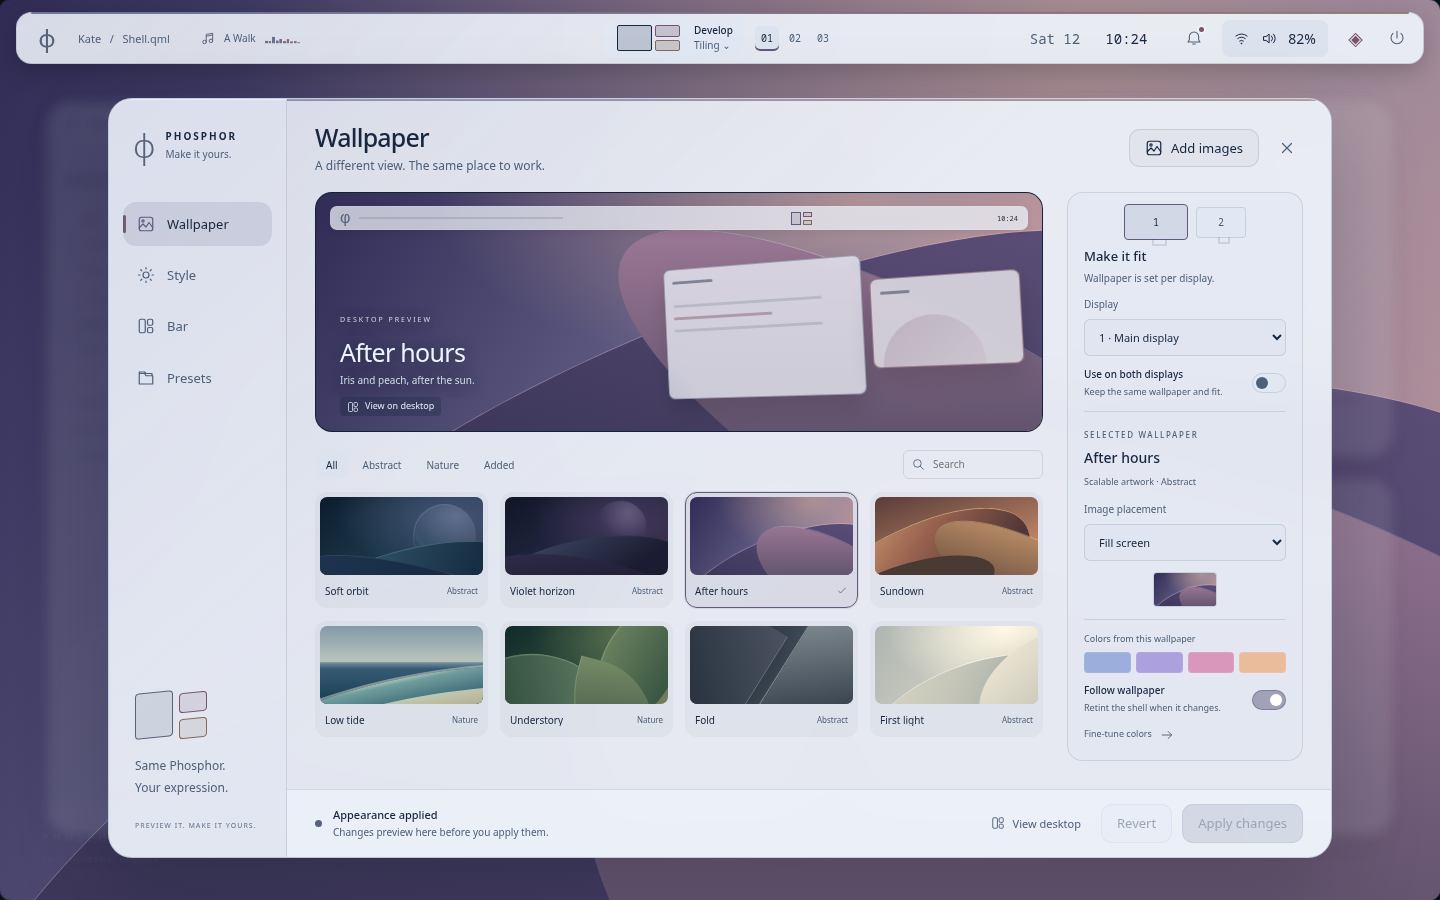
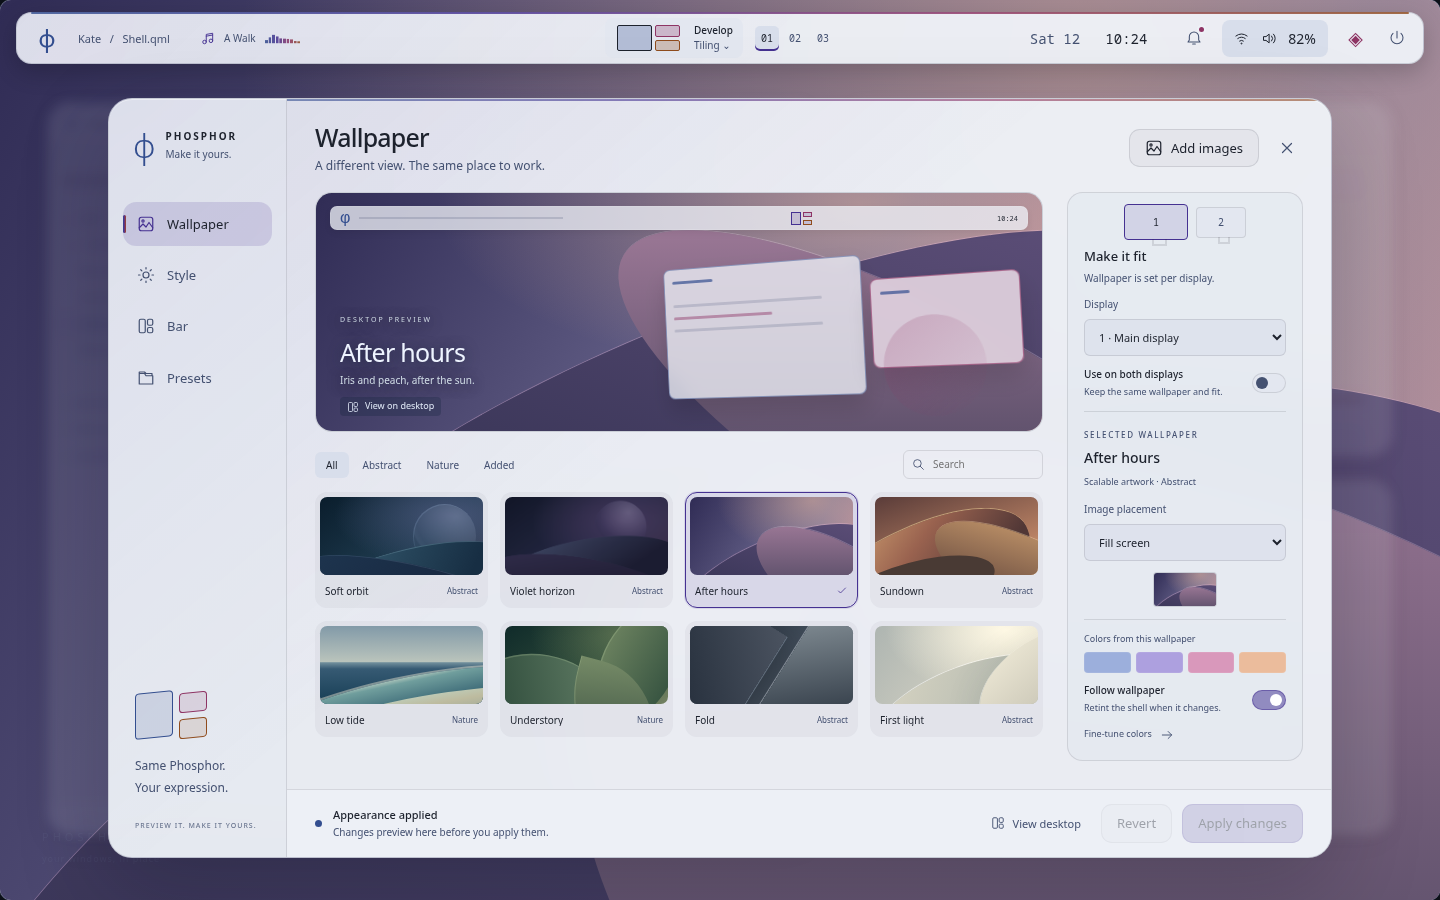
fix(shell): derive full mockup palettes from wallpaper colors

diff --git a/docs/design/mockups-v3/appearance.js b/docs/design/mockups-v3/appearance.js
@@ -20,6 +20,52 @@ window.PhosphorAppearance = (() => {
   const styleKeys = ['palette','material','density','radius','gap','glow'];
   const options = {palette:['spectrum','wallpaper','ember'],material:['glass','solid','light'],density:['comfortable','compact'],edge:['top','bottom'],visualizer:['ribbon','bars','halo','off'],lockLayout:['split','centered'],notificationGrouping:['app','time']};
 
+  const paletteRoles = ['c1','c2','c3','c4','bg','card','recess','text','muted','outline','shadow','glow','stage-shade','modal-shade'];
+  const rgb = color => [1,3,5].map(at=>parseInt(color.slice(at,at+2),16)/255);
+  const hex = channels => '#'+channels.map(v=>Math.round(Math.max(0,Math.min(1,v))*255).toString(16).padStart(2,'0')).join('');
+  function hsl(color) {
+    const [r,g,b]=rgb(color),max=Math.max(r,g,b),min=Math.min(r,g,b),delta=max-min,l=(max+min)/2;
+    if(!delta)return [0,0,l];
+    const h=max===r?((g-b)/delta+6)%6:max===g?(b-r)/delta+2:(r-g)/delta+4;
+    return [h/6,delta/(1-Math.abs(2*l-1)),l];
+  }
+  function tone([h,s],l,saturation=s) {
+    const a=saturation*Math.min(l,1-l);
+    return hex([0,8,4].map(n=>{const k=(n+h*12)%12;return l-a*Math.max(-1,Math.min(k-3,9-k,1));}));
+  }
+  function luminance(color) {
+    const [r,g,b]=rgb(color).map(v=>v<=.04045?v/12.92:((v+.055)/1.055)**2.4);
+    return .2126*r+.7152*g+.0722*b;
+  }
+  function readableColor(color,light,backgrounds) {
+    const seed=hsl(color),saturation=Math.min(.72,seed[1]),step=light?-.02:.02;
+    let level=light?Math.min(.38,seed[2]):Math.max(.72,seed[2]);
+    for(let i=0;i<40;i++,level=Math.max(0,Math.min(1,level+step))) {
+      const result=tone(seed,level,saturation),a=luminance(result);
+      if(backgrounds.every(bg=>{const b=luminance(bg);return (Math.max(a,b)+.05)/(Math.min(a,b)+.05)>=4.5;}))return result;
+    }
+    return light?'#000000':'#ffffff';
+  }
+  function wallpaperPalette(colors,settings) {
+    // The dominant wallpaper hue colors every semantic role. Keep luminance
+    // predictable so changing an image cannot turn glass or Paper unreadable.
+    // Achromatic images stay neutral rather than acquiring an arbitrary hue.
+    const seed=hsl(colors[0]),saturation=Math.min(.38,seed[1]*1.15),light=settings.material==='light';
+    const surface=tone(seed,light?.952:.135,saturation);
+    const card=tone(seed,light?.885:.205,saturation*.86);
+    const recess=tone(seed,light?.916:.085,saturation*.8);
+    const text=readableColor(tone(seed,light?.145:.945,saturation*.6),light,[surface,card,recess]);
+    const muted=readableColor(tone(seed,light?.355:.715,saturation*.65),light,[surface,card,recess]);
+    const shade=tone(seed,.055,saturation);
+    const result={bg:surface+(settings.material==='solid'?'':light?'f5':'f2'),card,recess,text,muted,
+      outline:tone(seed,light?.28:.76,saturation*.7)+(light?'30':'2b'),
+      shadow:`0 22px 55px ${shade}${light?'40':'80'}`,
+      'stage-shade':shade+'a3','modal-shade':shade+'80'};
+    colors.forEach((color,i)=>{result[`c${i+1}`]=readableColor(color,light,[surface,card,recess]);});
+    result.glow=settings.glow?`0 0 24px ${result.c2}22`:'0 0 0 transparent';
+    return result;
+  }
+
   function create({root,desktop,icon,getSettings,setSettings,presets,onClose,notify}) {
     let data=copy(initial),applied,baseline,active=false,peek=false,page='wallpaper',filter='All',query='',dialog=null,pendingExit=null,skipGuard=false,chosenWidget='workspaces',dragged='',message='',saved=[],uploads=[];
     const key='phosphor-appearance-study-v1';
@@ -98,12 +144,8 @@ window.PhosphorAppearance = (() => {
       bg.classList.add('ap-wallpaper');bg.innerHTML=artwork(wall);bg.dataset.fit=data.displays[data.display].fit;
       desktop.dataset.apColorSource=data.colorSource;
       desktop.dataset.apDesktopStyle=data.desktopStyle;desktop.dataset.apEffect=data.surfaceEffect;
-      for(let i=0;i<4;i++)desktop.style.removeProperty(`--c${i+1}`);
-      if(data.colorSource==='wallpaper')wall.colors.forEach((c,i)=>{
-        const rgb=[1,3,5].map(at=>parseInt(c.slice(at,at+2),16));
-        if(s.material==='light')for(let j=0;j<3;j++)rgb[j]=Math.round(rgb[j]*.56);
-        desktop.style.setProperty(`--c${i+1}`,'#'+rgb.map(v=>v.toString(16).padStart(2,'0')).join(''));
-      });
+      for(const role of paletteRoles)desktop.style.removeProperty(`--${role}`);
+      if(data.colorSource==='wallpaper')for(const [role,color] of Object.entries(wallpaperPalette(wall.colors,s)))desktop.style.setProperty(`--${role}`,color);
       desktop.style.setProperty('--ap-accent',`var(--c${data.accent+1})`);
       desktop.style.setProperty('--ap-inset',`${data.inset}px`);
       desktop.style.setProperty('--ap-font',data.font);

diff --git a/docs/design/mockups-v3/appearance.css b/docs/design/mockups-v3/appearance.css
@@ -51,7 +51,7 @@
 .ap-kicker{font-size:8px;font-weight:500;letter-spacing:1.65px;color:var(--muted)}
 .ap-wall-layout,.ap-bar-layout{display:grid;grid-template-columns:minmax(0,1fr) 236px;gap:24px;align-items:start}
 .ap-wall-browser{min-width:0}
-.ap-scene{position:relative;height:240px;border-radius:calc(var(--radius)*.7);overflow:hidden;isolation:isolate;border:1px solid var(--ap-border);background:#142236}
+.ap-scene{position:relative;height:240px;border-radius:calc(var(--radius)*.7);overflow:hidden;isolation:isolate;border:1px solid var(--ap-border);background:var(--recess)}
 .ap-scene>.ap-art{position:absolute;inset:0}
 .ap-art{position:relative;overflow:hidden;isolation:isolate;background:#16263c;min-width:0;min-height:0}
 .ap-art img{display:block;width:100%;height:100%;object-fit:cover}
@@ -80,7 +80,7 @@
 .ap-art-linen{background:radial-gradient(at 80% 5%,#fff9e5,transparent 65%),linear-gradient(125deg,#aeb5b1,#e5dfcc)}
 .ap-art-linen i:first-child{width:130%;height:120%;left:-5%;top:50%;border-radius:50%;transform:rotate(-20deg);background:linear-gradient(130deg,#dbd7c4,#a0aaa6);box-shadow:0 -1px #fff8}
 .ap-art-linen i:nth-child(2){width:90%;height:110%;left:60%;top:15%;border-radius:50%;background:linear-gradient(170deg,#ece7d4,#bbb8aa);transform:rotate(-32deg);box-shadow:-1px 0 #fff8,-8px 0 30px #515d521a}
-.ap-wallpaper{filter:none!important;background:#111d2a}
+.ap-wallpaper{filter:none!important;background:var(--recess)}
 .ap-wallpaper>.ap-art{position:absolute;inset:0}
 .ap-wallpaper[data-fit=fit]>.ap-art{inset:8% 0}
 .ap-wallpaper[data-fit=center]>.ap-art{inset:13%}
@@ -207,7 +207,7 @@
 .ap-preset-note{display:flex;align-items:center;justify-content:center;gap:8px;font-size:10px;color:var(--muted);margin-top:23px}.ap-preset-note .icon{width:12px;height:12px;color:var(--c1)}
 .ap-empty{grid-column:1/-1;min-height:220px;display:flex;align-items:center;justify-content:center;flex-direction:column;border:1px dashed var(--ap-border);border-radius:12px;padding:25px;color:var(--muted)}
 .ap-empty>.icon{width:32px;height:32px;color:var(--c3);margin-bottom:15px}.ap-empty h3{font-size:15px;font-weight:400;color:var(--text);margin:0 0 6px}.ap-empty p{font-size:11px;margin:0 0 15px}
-.ap-modal-shade{position:absolute;inset:0;background:#06102080;backdrop-filter:blur(5px);display:grid;place-items:center;z-index:30}
+.ap-modal-shade{position:absolute;inset:0;background:var(--modal-shade,#06102080);backdrop-filter:blur(5px);display:grid;place-items:center;z-index:30}
 .ap-modal{width:448px;padding:30px}.ap-modal h3{font-size:24px;font-weight:400;letter-spacing:-.6px;margin:8px 0 10px}.ap-modal>p{font-size:12px;line-height:1.8;color:var(--muted)}
 .ap-modal-actions{display:flex;justify-content:flex-end;gap:9px;margin-top:25px}.ap-modal-actions button{font-size:11px;padding:9px 12px}.ap-modal:has([data-ap="discard"]){width:485px}
 .ap-modal-symbol{display:grid;place-items:center;width:44px;height:44px;background:color-mix(in srgb,var(--c3) 12%,transparent);color:var(--c3);border-radius:11px;margin-bottom:17px}

diff --git a/docs/design/mockups-v3/index.html b/docs/design/mockups-v3/index.html
@@ -97,7 +97,7 @@
   <div class="customizer-heading"><div><span class="eyebrow">MAKE IT YOURS</span><h2>Same Phosphor.<br>Your expression.</h2></div><button id="close-customizer" aria-label="Close customization">×</button></div>
   <p>Changes apply to both studies. Your choices stay when you switch between them.</p>
   <label>Starting point<select id="preset"><option value="custom">Custom</option><option value="phosphor" selected>Phosphor / deep glass</option><option value="paper">Paper / bright & quiet</option><option value="ember">Ember / warm & compact</option></select></label>
-  <label>Color field<select data-setting="palette"><option value="spectrum">Phosphor spectrum</option><option value="wallpaper">Wallpaper / iris to peach</option><option value="ember">Ember / honey to rust</option></select></label>
+  <label>Color field<select data-setting="palette"><option value="spectrum">Phosphor spectrum</option><option value="wallpaper">Colors from wallpaper</option><option value="ember">Ember / honey to rust</option></select></label>
   <label>Surface material<select data-setting="material"><option value="glass">Tinted glass</option><option value="solid">Opaque</option><option value="light">Light ceramic</option></select></label>
   <label>Bar placement<select data-setting="edge"><option value="top">Top</option><option value="bottom">Bottom</option></select></label>
   <label>Density<select data-setting="density"><option value="comfortable">Comfortable</option><option value="compact">Compact</option></select></label>

diff --git a/docs/design/mockups-v3/studies.css b/docs/design/mockups-v3/studies.css
@@ -204,7 +204,7 @@ kbd{font:9px monospace;border:1px solid var(--outline);padding:3px 5px;border-ra
 .stage.overview-open .terminal-content{font-size:9px;padding:18px}
 .stage #overview{position:absolute;inset:0;z-index:4;pointer-events:none}
 .stage #overview button,.stage #overview select{pointer-events:auto}
-.stage-shade{position:absolute;inset:0;background:#050c1b99;backdrop-filter:blur(12px);z-index:3}
+.stage-shade{position:absolute;inset:0;background:var(--stage-shade,#050c1b99);backdrop-filter:blur(12px);z-index:3}
 .stage-title{position:absolute;top:96px;left:230px;right:268px;display:flex;justify-content:space-between;align-items:center}
 .stage-title h2{font-size:28px;margin:5px 0;font-weight:500;letter-spacing:-.8px;color:#edf2ff}
 .stage-title .sub{color:#a1b1ca}

diff --git a/docs/design/mockups-v3/studies.js b/docs/design/mockups-v3/studies.js
@@ -392,6 +392,8 @@ function render() {
   updateNotificationBell();
   lockscreen.render(state.view==='lockscreen');
   appearance.render(state.view==='appearance');
+  // Canvas gradients cache their colors; resample after the wallpaper palette.
+  syncVisualizer();
   $$('[data-study]').forEach(b=>b.setAttribute('aria-pressed',b.dataset.study===state.study));
   $$('.view-switch [data-view]').forEach(b=>b.setAttribute('aria-pressed',b.dataset.view===state.view));
   history.replaceState(null,'',`#${state.study}/${state.view}`);

diff --git a/docs/design/README.md b/docs/design/README.md
@@ -14,7 +14,10 @@ window. The gallery includes eight wallpapers, searchable collections, image
 import, two simulated displays, placement controls and wallpaper-derived colors.
 A desktop preview hides windows so the background can be judged at full size.
 Changes stay provisional until Apply. Revert restores the applied look, and
-closing with changes offers Apply, Discard or Keep editing.
+closing with changes offers Apply, Discard or Keep editing. Following a wallpaper
+retints the shell backgrounds, cards, text, borders, shadows and accents together.
+Light and dark tones retain readable contrast, and media visualization takes the
+same palette immediately. See the [Understory color study](mockups-v3/appearance-wallpaper-colors.png).
 
 Style includes palette and focus color, glass/solid/light materials, geometry,
 fonts, motion, media and privacy options, with browser approximations of optional
